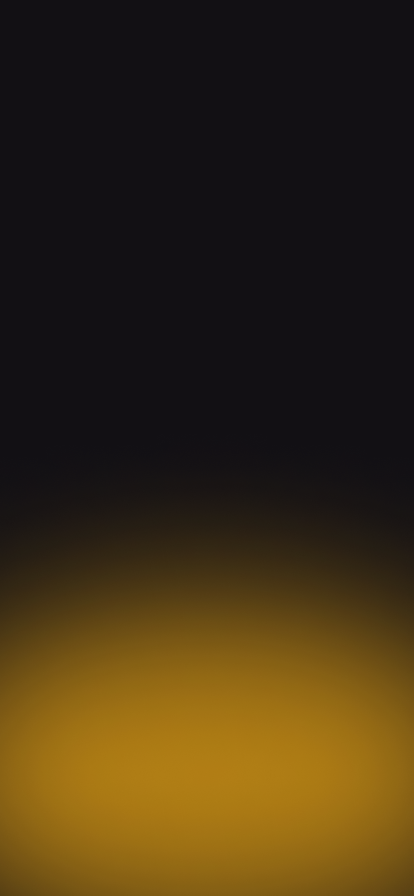
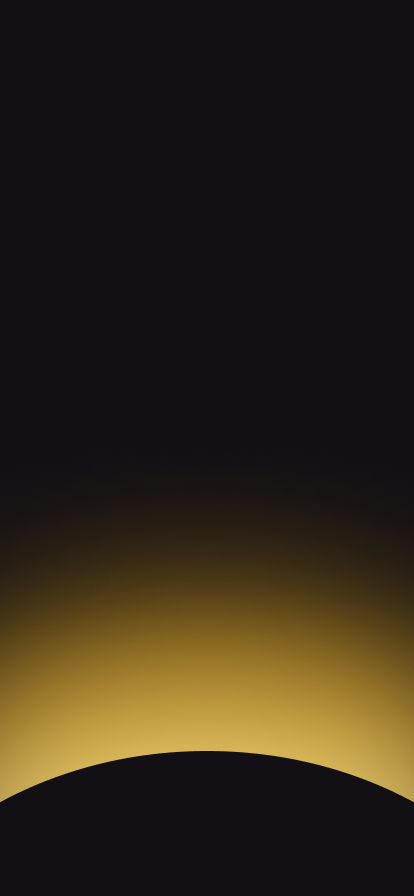
navigation bar

Changed region(s): [[0.0, 0.75, 1.0, 1.0]]

diff --git a/views/HomeScreen/HomeScreen.tsx b/views/HomeScreen/HomeScreen.tsx
@@ -1,20 +1,21 @@
-import React, { useState } from 'react';
-import { View, Text, TextInput, Button, Switch, StyleSheet, TouchableOpacity, Image } from 'react-native';
-import { LinearGradient } from "expo-linear-gradient";
-import CustomSwitch from '../../components/CustomSwitch';
-import LinearTextGradient from "expo-linear-gradient";
-import GradientText from '../../components/GradientText';
-import { useFonts } from 'expo-font';
-import Font from '../../components/Font';
-import { RootStackParamList } from '../../components/types/types';
-import { NativeStackScreenProps } from "@react-navigation/native-stack";
-
-
+import React from 'react';
+import { View, Text, ImageBackground, Image, StyleSheet } from 'react-native';
 
 const HomeScreen = ({}) => {
   return (
     <View style={styles.container}>
-      <Text style={styles.title}>Home Screen</Text>
+      <ImageBackground 
+         source={require("../../assets/img/bg2.png")}
+         style={styles.backgroundImage}
+      />
+      <Image
+        source={require('../../assets/img/avatar.png')} 
+        style={styles.profileImage}
+      />
+      <View style={styles.textContainer}>
+        <Text style={styles.greetingText}>Hey, Kira!</Text>
+        <Text style={styles.dateText}>Thursday, September 21th</Text>
+      </View>
     </View>
   );
 };
@@ -22,18 +23,32 @@ const HomeScreen = ({}) => {
 const styles = StyleSheet.create({
   container: {
     flex: 1,
-    alignItems: 'center',
-    backgroundColor: '#121014',
   },
-  title: {
-    color: '#fff',
-    textAlign: 'center',
-    fontFamily: Font['Gilroy-Regular'],
-    fontSize: 30,
-    fontWeight: '400',
-    lineHeight: 33.5,
-    marginBottom: 42,
-    marginTop: 95,
+  backgroundImage: {
+    flex: 1,
+    resizeMode: 'cover',
+  },
+  profileImage: {
+    width: 150,
+    height: 150,
+    borderRadius: 75,
+    position: 'absolute',
+    top: 20,
+    left: 20,
+  },
+  textContainer: {
+    position: 'absolute',
+    top: 20,
+    left: 200, // Adjust the left position as needed
+  },
+  greetingText: {
+    fontSize: 24,
+    fontWeight: 'bold',
+    color: 'white', // Change the color as needed
+  },
+  dateText: {
+    fontSize: 16,
+    color: 'white', // Change the color as needed
   },
 });
 

diff --git a/views/NotificationScreen/NotificationScreen.tsx b/views/NotificationScreen/NotificationScreen.tsx
@@ -1,5 +1,5 @@
 import React, { useState } from 'react';
-import { View, Text, TextInput, Button, Switch, StyleSheet, TouchableOpacity, Image } from 'react-native';
+import { View, Text, TextInput, Button, Switch, StyleSheet, TouchableOpacity, ImageBackground } from 'react-native';
 import { LinearGradient } from "expo-linear-gradient";
 import CustomSwitch from '../../components/CustomSwitch';
 import LinearTextGradient from "expo-linear-gradient";
@@ -14,7 +14,11 @@ import { NativeStackScreenProps } from "@react-navigation/native-stack";
 const NotificationScreen = ({}) => {
   return (
     <View style={styles.container}>
-      <Text style={styles.title}>Notification Screen</Text>
+      <ImageBackground 
+         source={require("../../assets/img/bg2.png")}
+         style={styles.backgroundImage}
+      />
+      <Text>Notification Screen</Text>
     </View>
   );
 };
@@ -22,18 +26,11 @@ const NotificationScreen = ({}) => {
 const styles = StyleSheet.create({
   container: {
     flex: 1,
-    alignItems: 'center',
-    backgroundColor: '#121014',
+    justifyContent: 'center',
   },
-  title: {
-    color: '#fff',
-    textAlign: 'center',
-    fontFamily: Font['Gilroy-Regular'],
-    fontSize: 30,
-    fontWeight: '400',
-    lineHeight: 33.5,
-    marginBottom: 42,
-    marginTop: 95,
+  backgroundImage: {
+    flex: 1,
+    resizeMode: 'cover',
   },
 });
 

diff --git a/views/SettingsScreen/SettingsScreen.tsx b/views/SettingsScreen/SettingsScreen.tsx
@@ -1,5 +1,5 @@
 import React, { useState } from 'react';
-import { View, Text, TextInput, Button, Switch, StyleSheet, TouchableOpacity, Image } from 'react-native';
+import { View, Text, TextInput, Button, Switch, StyleSheet, TouchableOpacity, ImageBackground } from 'react-native';
 import { LinearGradient } from "expo-linear-gradient";
 import CustomSwitch from '../../components/CustomSwitch';
 import LinearTextGradient from "expo-linear-gradient";
@@ -14,7 +14,11 @@ import { NativeStackScreenProps } from "@react-navigation/native-stack";
 const SettingsScreen = ({}) => {
   return (
     <View style={styles.container}>
-      <Text style={styles.title}>Settings Screen</Text>
+      <ImageBackground 
+         source={require("../../assets/img/bg2.png")}
+         style={styles.backgroundImage}
+      />
+      <Text>Settings Screen</Text>
     </View>
   );
 };
@@ -22,18 +26,11 @@ const SettingsScreen = ({}) => {
 const styles = StyleSheet.create({
   container: {
     flex: 1,
-    alignItems: 'center',
-    backgroundColor: '#121014',
+    justifyContent: 'center',
   },
-  title: {
-    color: '#fff',
-    textAlign: 'center',
-    fontFamily: Font['Gilroy-Regular'],
-    fontSize: 30,
-    fontWeight: '400',
-    lineHeight: 33.5,
-    marginBottom: 42,
-    marginTop: 95,
+  backgroundImage: {
+    flex: 1,
+    resizeMode: 'cover',
   },
 });
 

diff --git a/components/NavigationBar.tsx b/components/NavigationBar.tsx
@@ -25,10 +25,12 @@ function NavigationBar() {
           inactiveTintColor: "grey",
           labelStyle: { paddingBottom: 10, fontSize: 10 },
           tabBarStyle: {
-              backgroundColor: "#121014",
-              width: '100%',
-              borderTopLeftRadius: 50, // Adjust as needed for the desired circular appearance
-              borderTopRightRadius: 50, // Adjust as needed for the desired circular appearance
+            backgroundColor: 'transparent',
+            borderTopWidth: 0,
+            position: 'absolute',
+            bottom: 0,
+
+            fontFamily: Font["Gilroy-Regular"],
           },
           headerShown: false,
 
